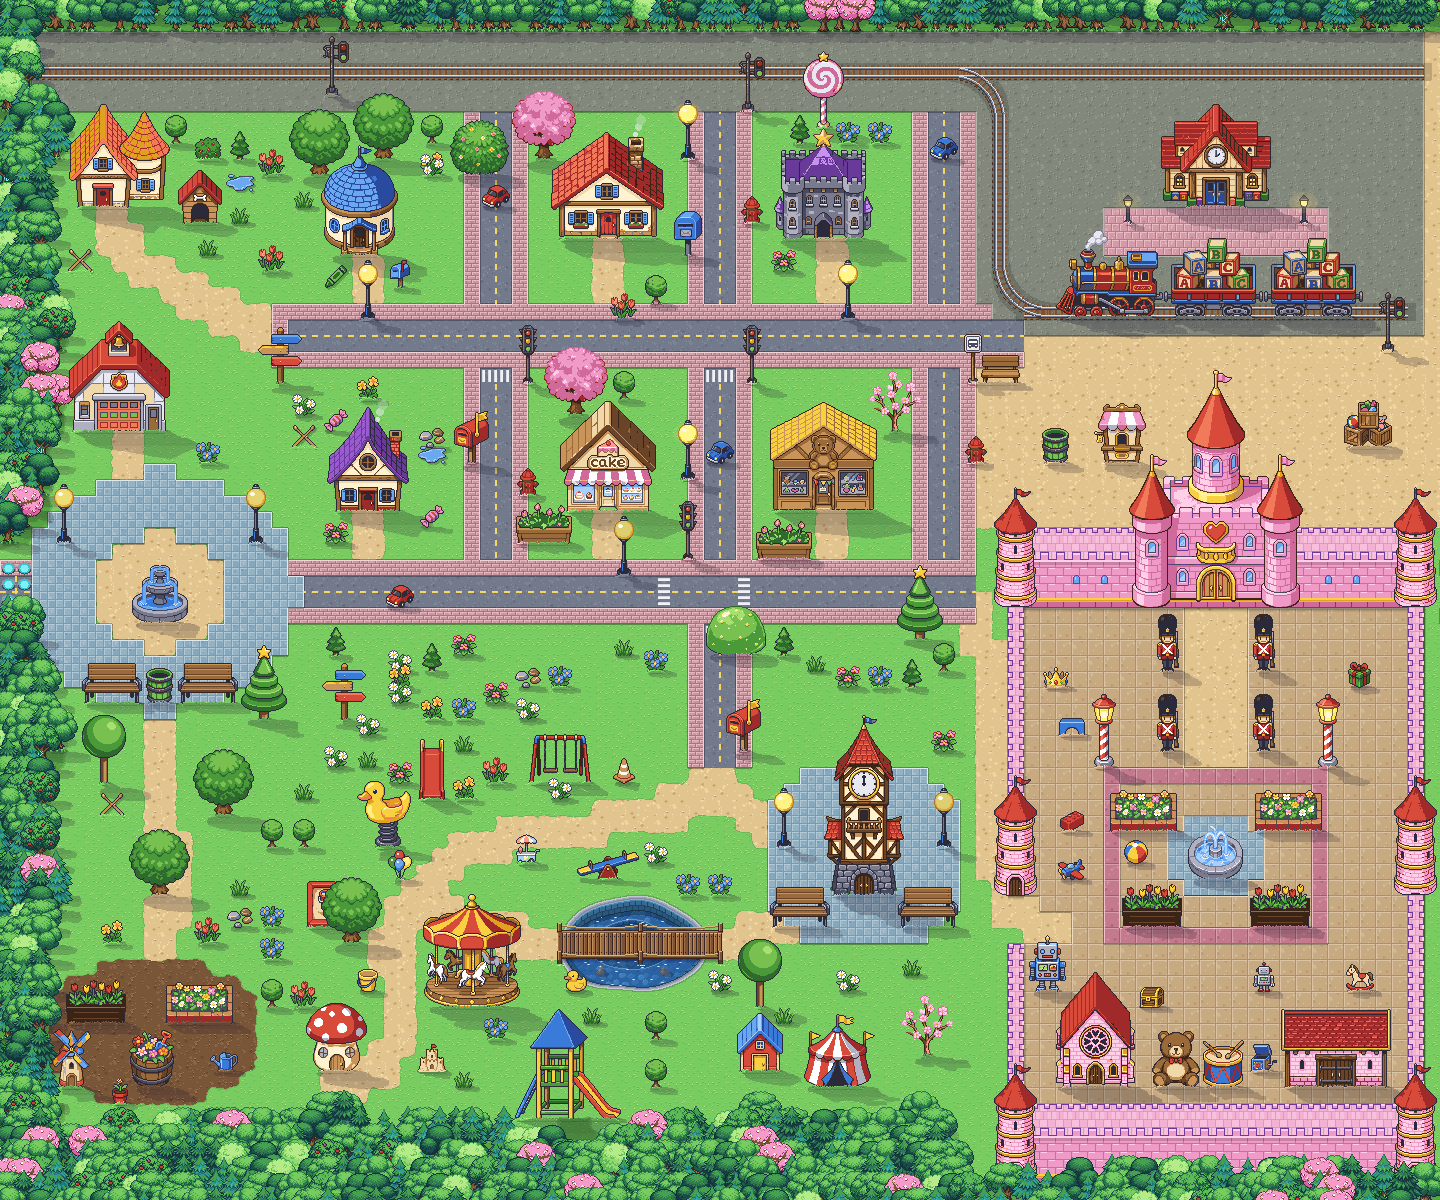
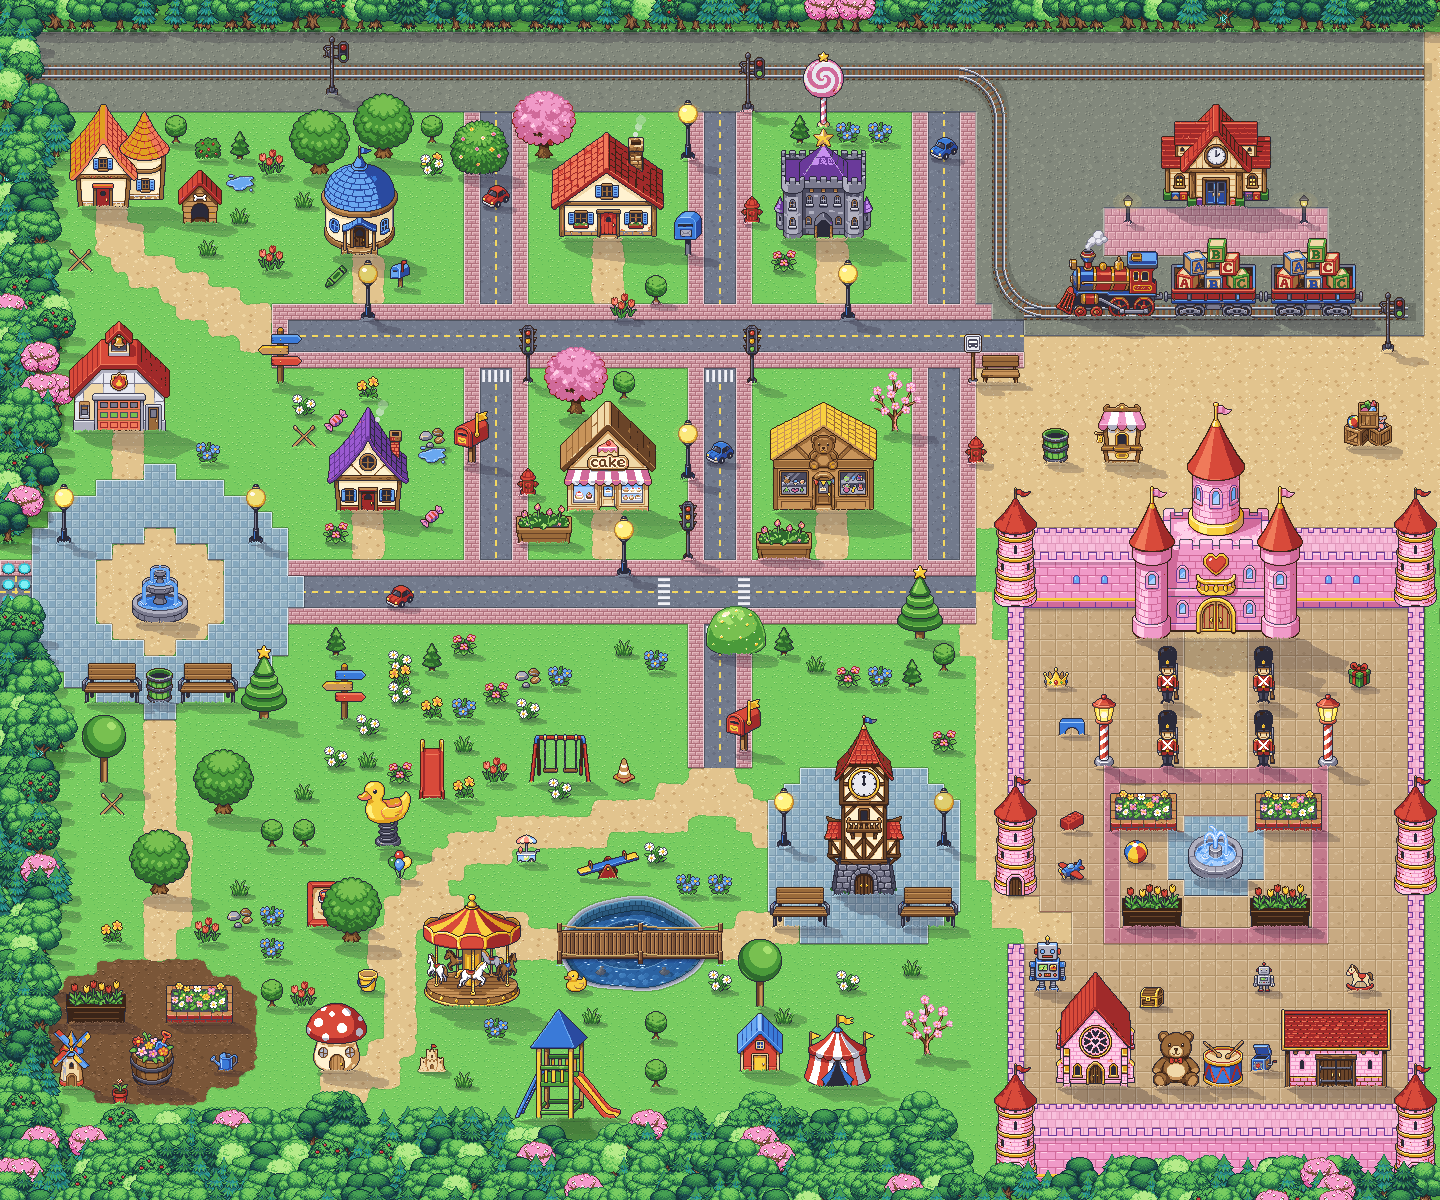
Karte 10: Hauptschloss 2 Kacheln tiefer vor der Mauer im Burghof (mit Schatten), Soldaten mitgerueckt
Claude-Session: https://claude.ai/code/session_01SaoYHKhnro4LFcPJqjaPsq

Changed region(s): [[0.7812, 0.3083, 0.9375, 0.6475], [0.4062, 0.4317, 0.4375, 0.4625], [0.25, 0.2158, 0.2812, 0.2467]]

diff --git a/tools/karte10_objekte.py b/tools/karte10_objekte.py
@@ -53,8 +53,8 @@ FEST = [
     (LAMPE, ACHSE_BRUNNEN - 96, 33, {'symm': 'bl1', 'anim': 'lampe'}), (LAMPE, ACHSE_BRUNNEN + 96, 33, {'symm': 'bl1', 'anim': 'lampe'}),
     (BANK, ACHSE_BRUNNEN - 48, 43, {'symm': 'bb'}), (BANK, ACHSE_BRUNNEN + 48, 43, {'symm': 'bb'}),
     # Burghof: Soldaten am Torweg, Brunnen im Rahmen, Blumenbeete in den Rahmenecken (symmetrisch)
-    (SOLDAT, ACHSE_BURG - 56, 41, {'symm': 's1'}), (SOLDAT, ACHSE_BURG + 56, 41, {'symm': 's1'}),
-    (SOLDAT, ACHSE_BURG - 56, 46, {'symm': 's2'}), (SOLDAT, ACHSE_BURG + 56, 46, {'symm': 's2'}),
+    (SOLDAT, ACHSE_BURG - 56, 43, {'symm': 's1'}), (SOLDAT, ACHSE_BURG + 56, 43, {'symm': 's1'}),
+    (SOLDAT, ACHSE_BURG - 56, 47, {'symm': 's2'}), (SOLDAT, ACHSE_BURG + 56, 47, {'symm': 's2'}),
     ('baeume/07', ACHSE_BURG, 54, {'achse': ACHSE_BURG, 'anim': 'brunnen'}),
     ('baeume/15', ACHSE_BURG - 72, 51, {'symm': 'f1'}), ('baeume/15', ACHSE_BURG + 72, 51, {'symm': 'f1'}),
     ('spielplatz/15', ACHSE_BURG - 72, 57, {'symm': 'f2'}), ('spielplatz/15', ACHSE_BURG + 72, 57, {'symm': 'f2'}),
@@ -242,10 +242,10 @@ def main():
 
     # 1) Burg: das Hauptschloss (PixelLab k10_schloss) ist der Torbau in der Nordmauer, genau auf der Achse.
     datei, h, zu, mitte = sprite('schloss/00')
-    objekte.append({'datei': datei, 'basis': 'schloss/00', 'x': int(round(ACHSE_BURG - mitte)), 'y': WAND_FUSS - zu,
-                    'fuss': h, 'kachel': [76, 37], 'ebene': 1, 'an_wand': True, 'kein_schatten': True,
-                    'keine_verdeckung': True, 'vorrang': True, 'fest_pos': True, 'anim': 'fahnen_tuch'})
-    belegen(datei, int(round(ACHSE_BURG - mitte)), WAND_FUSS - zu)
+    SCHLOSS_FUSS = WAND_FUSS + 2 * T                     # Hauptschloss steht 2 Kacheln vor der Mauer im Hof (Nutzer)
+    objekte.append({'datei': datei, 'basis': 'schloss/00', 'x': int(round(ACHSE_BURG - mitte)), 'y': SCHLOSS_FUSS - zu,
+                    'fuss': h, 'kachel': [76, 39], 'ebene': 1, 'keine_verdeckung': True, 'vorrang': True, 'fest_pos': True, 'anim': 'fahnen_tuch'})
+    belegen(datei, int(round(ACHSE_BURG - mitte)), SCHLOSS_FUSS - zu)
     # Rundtuerme (PixelLab k10_schloss2/02, im Stil des Hauptschlosses) in festem Rhythmus: an den Enden der
     # Burgfront (spiegelgleich zur Achse), auf der Ostmauer in gleichen Abstaenden, an den Ecken der Suedmauer
     td, th, tzu, tm = sprite('schloss2/02')
